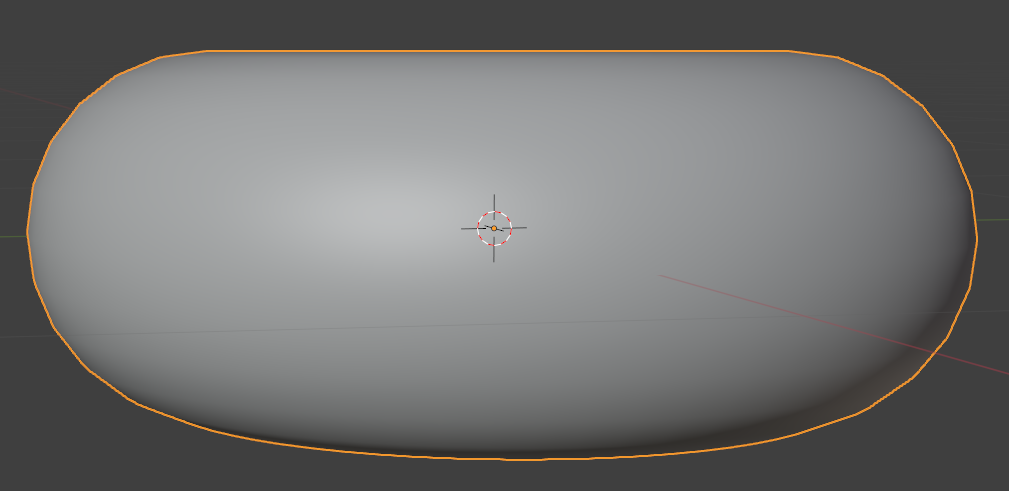
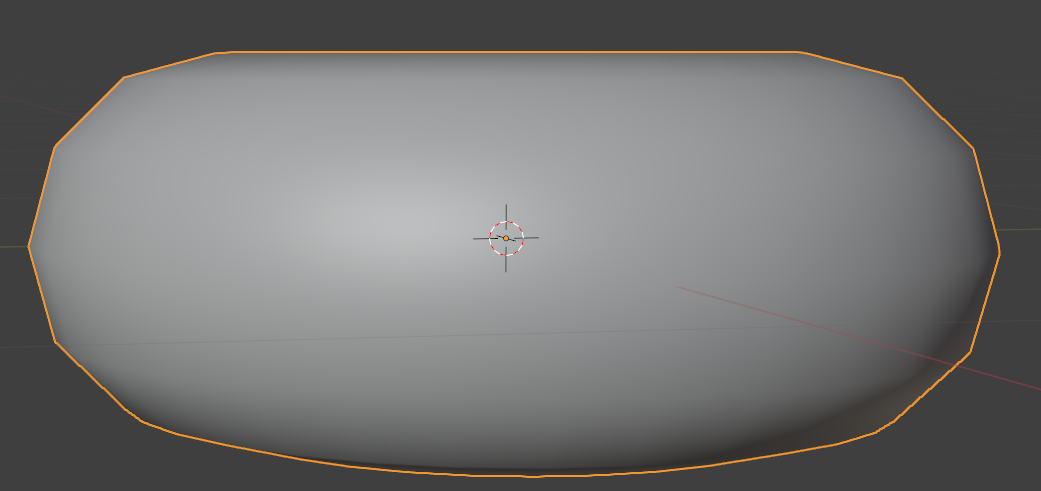
GITBOOK-12: No subject

diff --git a/shorcuts.md b/shorcuts.md
@@ -15,19 +15,23 @@ Navigation / View :
 
 Moving&#x20;
 
-| Bouton                     | Action                           |
-| -------------------------- | -------------------------------- |
-| Click on object            | Objet selection (orange contour) |
-| Select + G                 | Move state (white contour)       |
-| Select + G + X (or Y or Z) | Move only on X axis (or Y or Z)  |
-| Select + G + Middle Mouse  | Move only on one axis            |
-| Escape (or Right Click)    | Cancel movement                  |
-| Left Click                 | Confirm movement                 |
-| Select + S                 | Scale state (white contour)      |
-| Select + R                 | Rotate state (white contour)     |
+| Bouton                                   | Action                           |
+| ---------------------------------------- | -------------------------------- |
+| Click on object / edge / face / vertexes | Objet selection (orange contour) |
+| Select + G                               | Move state (white contour)       |
+| Select + G + X (or Y or Z)               | Move only on X axis (or Y or Z)  |
+| Select + G + Middle Mouse                | Move only on one axis            |
+| Escape (or Right Click)                  | Cancel movement                  |
+| Left Click                               | Confirm movement                 |
+| Select + S                               | Scale state (white contour)      |
+| Select + R                               | Rotate state (white contour)     |
 
-Add
+Object
 
-| Bouton    | Action           |
-| --------- | ---------------- |
-| Shift + A | Add a new object |
+| Bouton                  | Action                 |
+| ----------------------- | ---------------------- |
+| Shift + A               | Add a new object       |
+| Shift + D               | Duplicate              |
+| Ctrl + 1 (Keyboard)     | Subdivision Modifier   |
+| Alt + Click on a vertex | Edge Selection         |
+| F2                      | Rename Selected Object |

diff --git a/README (2).md b/README (2).md
@@ -18,7 +18,7 @@
 
 But the silouhette is still straigth
 
-<figure><img src=".gitbook/assets/image.png" alt="" width="375"><figcaption></figcaption></figure>
+<figure><img src=".gitbook/assets/image (1).png" alt="" width="375"><figcaption></figcaption></figure>
 
 **Subdivision Surface**
 
@@ -36,7 +36,22 @@ or :
 
 The silouhette is now curved : (add resolutions with more faces as level raises)
 
-<figure><img src=".gitbook/assets/image (1).png" alt="" width="375"><figcaption></figcaption></figure>
+<figure><img src=".gitbook/assets/image (1) (1).png" alt="" width="375"><figcaption></figcaption></figure>
 
+**Proportional Editing \[Edit Mode]**
 
+Instead of moving a face / edge / vextex, move all vertexes inside a circle of influence
 
+* Click on Proportionnal Editing
+* Select a vertex (Orange contour)
+* G ⇒ Move state
+* Scroll ⇒ Increase or decrease the circle of influence
+* Select elsewhere ⇒ confirm movement
+
+<figure><img src=".gitbook/assets/Capture d&#x27;écran 2025-04-21 092145.png" alt="" width="375"><figcaption></figcaption></figure>
+
+**Select through Object**
+
+Click Toogle X-Ray, then Select multiples vertexes (then Move, Scale, Rotate)
+
+<figure><img src=".gitbook/assets/Capture d&#x27;écran 2025-04-21 113000.png" alt=""><figcaption></figcaption></figure>

diff --git a/SUMMARY.md b/SUMMARY.md
@@ -7,7 +7,7 @@
 * [Camera](blender/camera.md)
 * [Material](blender/material.md)
 * [Render](blender/render.md)
-* [Export in USD](blender/export-in-usd.md)
+* [Export in USD](blender/exporter-en-usd.md)
 * [Create a room](<README (1).md>)
 * [Links](blender/links.md)
 

diff --git a/blender/camera.md b/blender/camera.md
@@ -8,4 +8,4 @@
 * View tab
 * Tick Camera to View
 
-<figure><img src="../.gitbook/assets/image (1) (1).png" alt=""><figcaption></figcaption></figure>
+<figure><img src="../.gitbook/assets/image (1) (1) (1).png" alt=""><figcaption></figcaption></figure>

diff --git a/blender/exporter-en-usd.md b/blender/exporter-en-usd.md
@@ -1,0 +1,2 @@
+# Export in USD
+
